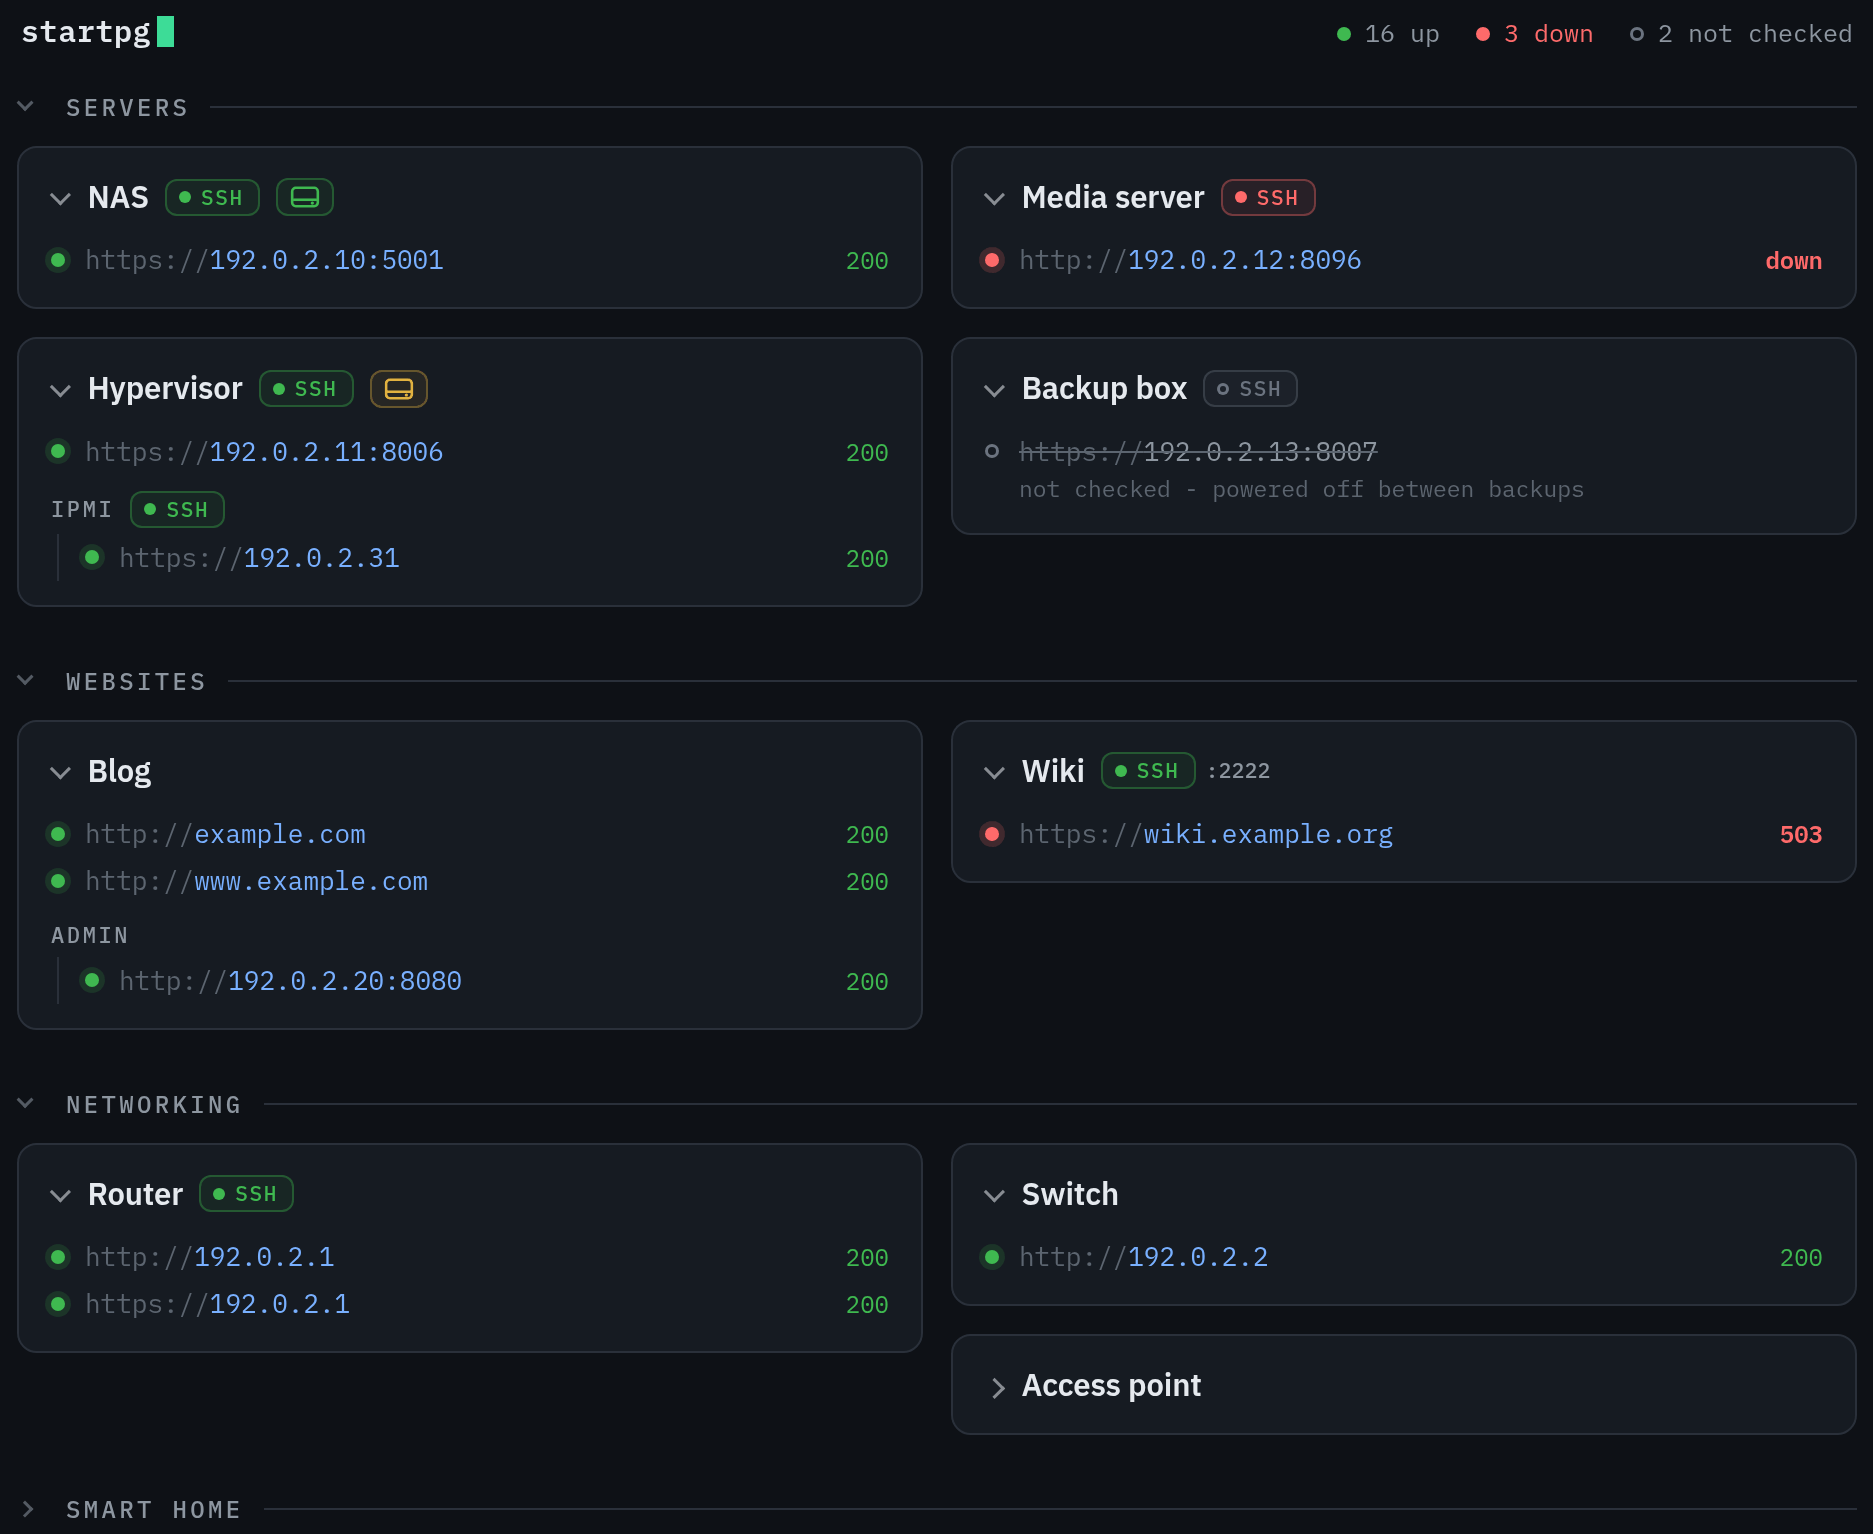
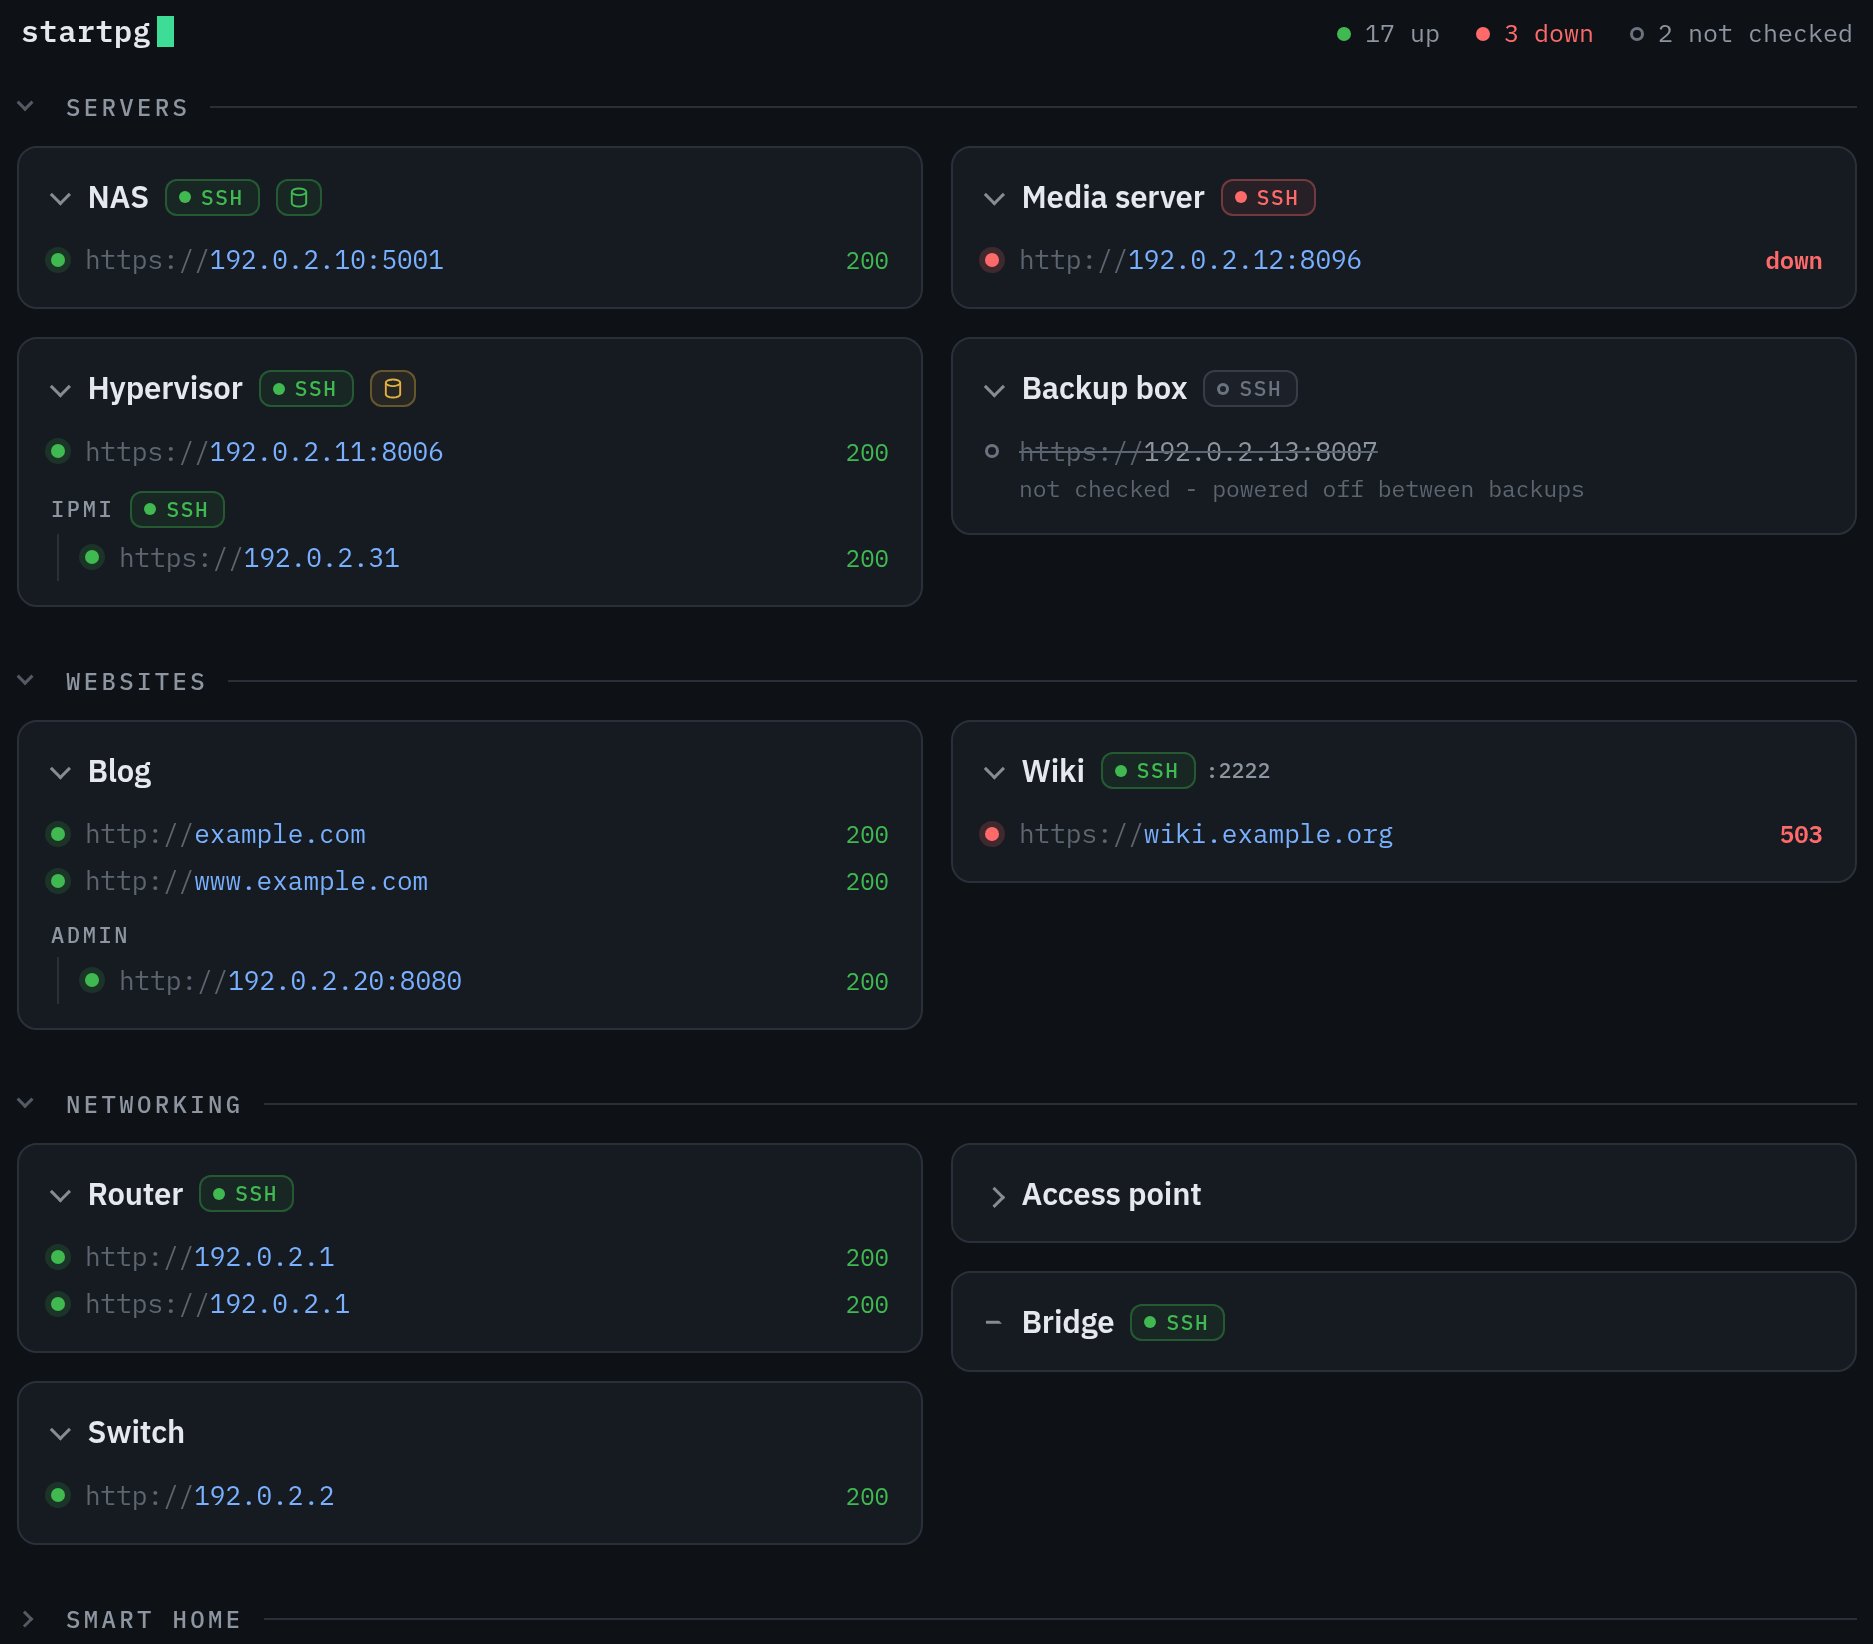
Tidy host title lines: cylinder drives, steady badges, inert leaves
- The drivecanary icon is a plain cylinder, sized so its chip is as
  tall as an SSH chip.
- Badges stay on the title line when a host is collapsed; collapsing
  hides only what's under the name.
- A host with nothing under its name, only badges, has nothing to
  collapse: it gets a dash in place of the chevron, no pointer, no click
  handler and no empty services block, and a collapsed state saved for
  it is ignored while it has nothing to hide. The dash keeps the
  chevron's box, border and all, so names line up at any pixel density.

The demo gains a badges-only host to show the dash in the screenshots.

diff --git a/src/face/templates/index.html b/src/face/templates/index.html
@@ -25,7 +25,7 @@
     {# Drive health from drivecanary: a drive coloured by its verdict, linking
        to the host's page there, with what needs attention in its tooltip. #}
     {% macro drives_badge(drives) -%}
-      <a class="drives drives-{{ drives.level }}" href="{{ drives.url }}" target="_blank" title="{{ drives.summary }}" aria-label="drive health: {{ drives.status }}"><svg viewBox="0 0 16 12" aria-hidden="true"><rect x="1" y="1" width="14" height="10" rx="2"/><path d="M1.5 7.5h13"/><circle cx="12" cy="9.3" r="0.9"/></svg></a>
+      <a class="drives drives-{{ drives.level }}" href="{{ drives.url }}" target="_blank" title="{{ drives.summary }}" aria-label="drive health: {{ drives.status }}"><svg viewBox="0 0 12 14" aria-hidden="true"><ellipse cx="6" cy="3.2" rx="4.8" ry="2.2"/><path d="M1.2 3.2v7.6c0 1.2 2.15 2.2 4.8 2.2s4.8-1 4.8-2.2V3.2"/></svg></a>
     {%- endmacro %}
 
     {# The URL as a link, its scheme dimmed and the trailing slash dropped. #}
@@ -59,16 +59,19 @@
       <div class="grouphosts">
         {% for host_name_display, host in group.hosts.items() %}
           {% set host_key = group_name ~ "/" ~ host_name_display %}
-          <div class="machine{% if host_key in collapsed_hosts %} collapsed{% endif %}"
+          {# The host's own services, then any named ones under their name,
+             given once: an IPMI port's, say. A host with nothing but badges
+             has nothing under its name, so nothing to collapse. #}
+          {% set own, named = host.sections[0], host.sections[1:] %}
+          {% set leaf = not own.links and not named %}
+          <div class="machine{% if leaf %} leaf{% elif host_key in collapsed_hosts %} collapsed{% endif %}"
                data-host="{{ host_key }}">
-            {# The host's own services, then any named ones under their name,
-               given once: an IPMI port's, say. #}
-            {% set own, named = host.sections[0], host.sections[1:] %}
             <div class="machinetitle">
               <span class="machinename">{{ host_name_display }}</span>
               {% for service in own.ssh %}{{ ssh_badge(service) }}{% endfor %}
               {% if host.drives %}{{ drives_badge(host.drives) }}{% endif %}
             </div>
+            {% if not leaf %}
             <div class="services">
               {% for service in own.links %}{{ link(service) }}{% endfor %}
               {% for section in named %}
@@ -81,6 +84,7 @@
                 </div>
               {% endfor %}
             </div>
+            {% endif %}
           </div>
         {% endfor %}
       </div>

diff --git a/src/face/static/css/style.css b/src/face/static/css/style.css
@@ -230,11 +230,26 @@ body {
   transform: rotate(-45deg);
 }
 
+/* Collapsing hides what's under the name; the title line's badges stay. */
 .machinegroup.collapsed .grouphosts,
-.machine.collapsed .machinetitle .ssh,
-.machine.collapsed .machinetitle .drives,
 .machine.collapsed .services {
   display: none;
+}
+
+/* A host with nothing under its name has nothing to collapse: no pointer,
+ * and a dash where the chevron would be. */
+.machine.leaf .machinename {
+  cursor: default;
+}
+
+.machine.leaf .machinename::before {
+  /* The chevron's box, border and all (only hidden), so the name lines up
+   * with the chevroned ones at any pixel density. */
+  width: 0.44em;
+  height: 0;
+  margin: 0 0.62em 0 0.02em;
+  border-right-color: transparent;
+  transform: translateY(-0.3em);
 }
 
 .services {
@@ -398,8 +413,8 @@ body {
   box-shadow: inset 0 0 0 1.5px currentColor;
 }
 
-/* Drive health from drivecanary: a drive in a chip coloured by its verdict,
- * linking to the host's page there. */
+/* Drive health from drivecanary: a cylinder in a chip coloured by its
+ * verdict, linking to the host's page there. */
 .drives {
   display: inline-flex;
   align-items: center;
@@ -411,16 +426,11 @@ body {
 }
 
 .drives svg {
-  width: 15px;
-  height: 11px;
+  width: 9px;
+  height: 10.5px;  /* makes the chip as tall as an SSH chip */
   fill: none;
   stroke: currentColor;
-  stroke-width: 1.4;
-}
-
-.drives svg circle {
-  fill: currentColor;
-  stroke: none;
+  stroke-width: 1.3;
 }
 
 .drives:focus-visible {

diff --git a/src/face/static/js/collapse.js b/src/face/static/js/collapse.js
@@ -1,4 +1,5 @@
-// Collapse groups and hosts by clicking their name.
+// Collapse groups and hosts by clicking their name. A host with nothing under
+// its name (a "leaf") has nothing to collapse, so its name isn't wired.
 //
 // The collapsed state is rendered server-side (so nothing flashes open on
 // load) and posted back here, which means it survives reloads, reboots, and
@@ -26,5 +27,5 @@
   }
 
   wire(".machinegroupname", ".machinegroup", "group", "group");
-  wire(".machinename", ".machine", "host", "host");
+  wire(".machine:not(.leaf) .machinename", ".machine", "host", "host");
 })();

diff --git a/docs/screenshot.py b/docs/screenshot.py
@@ -55,6 +55,7 @@ STATUS = {
     "ssh://192.0.2.1:22/": REACHABLE,
     "http://192.0.2.2/": UP,
     "http://192.0.2.3/": UP,
+    "ssh://192.0.2.4:22/": REACHABLE,
     "http://192.0.2.40:8123/": UP,
 }
 

diff --git a/README.md b/README.md
@@ -133,8 +133,10 @@ on tmpfs and is rebuilt by hiney each cycle, so it's fine to lose on reboot.
 Persistent UI collapse
 ----------------------
 
-Clicking a group or host name collapses it. That state is persisted server-side
-in `/var/lib/startpg/collapsed.json` (via `StateDirectory=startpg`) and rendered
+Clicking a group or host name collapses it, leaving the host's badges showing.
+A host with nothing under its name has a dash in place of the chevron, and
+doesn't collapse. The collapsed state is persisted server-side in
+`/var/lib/startpg/collapsed.json` (via `StateDirectory=startpg`) and rendered
 into the HTML, so it survives reloads and reboots, applies across every browser
 and device, and never flashes open on load. It's global rather than per-user,
 which suits a single-user homepage.
